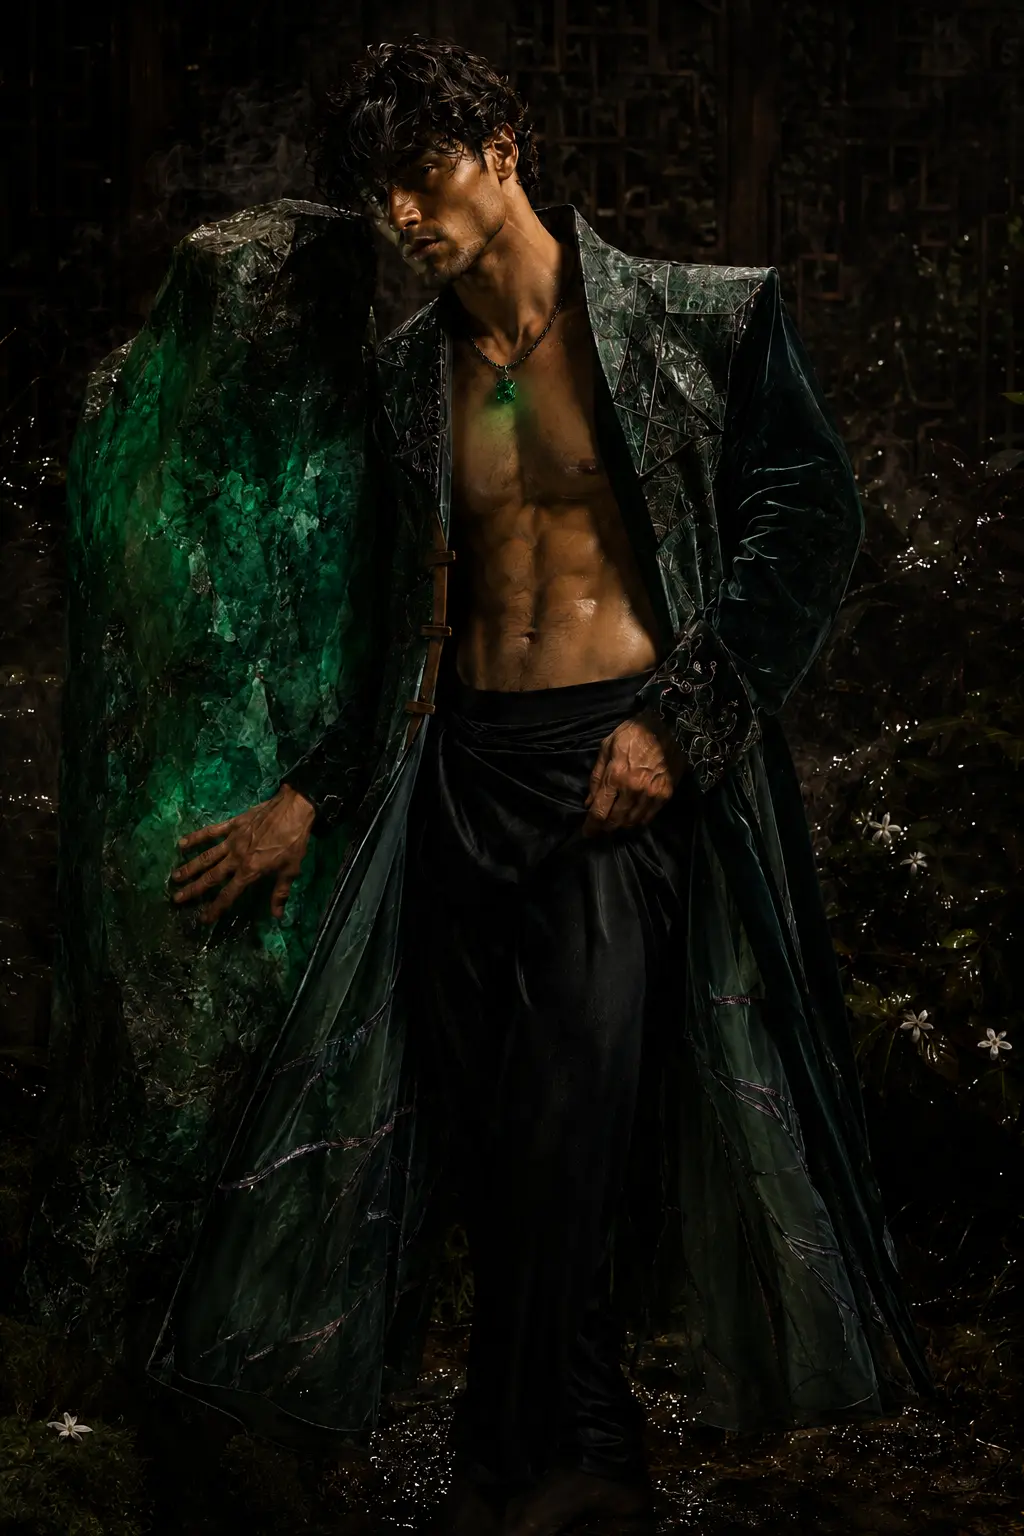
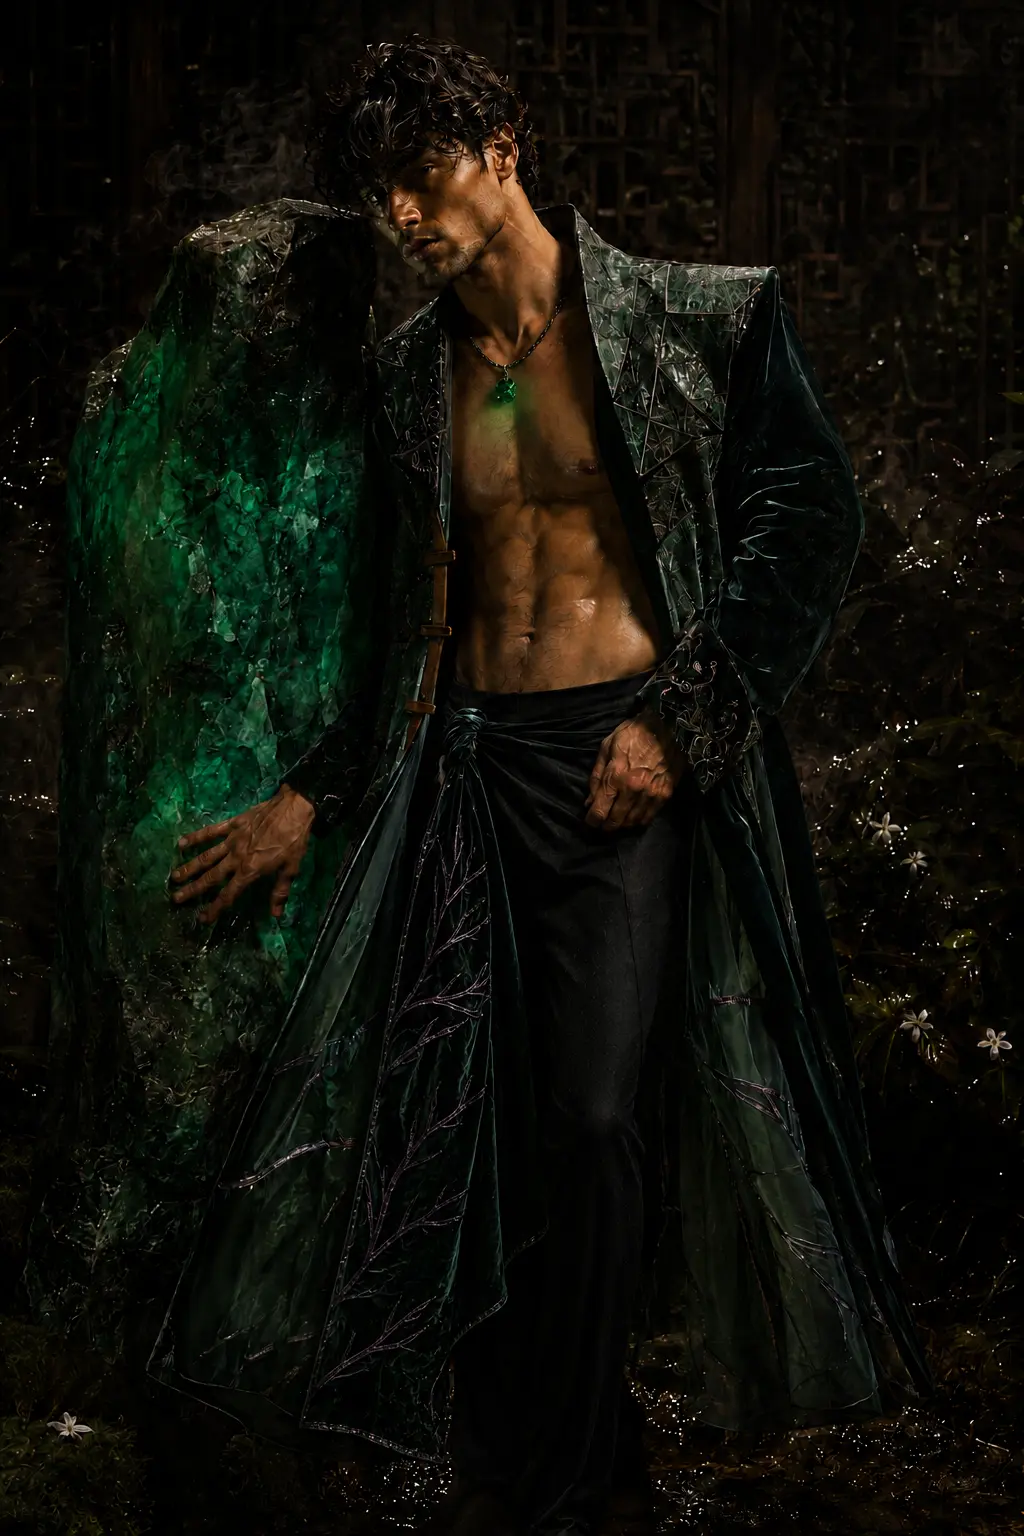
Finalize Velvet Jade couture portrait

diff --git a/index.html b/index.html
@@ -364,7 +364,7 @@
 <div class="badge">In Development</div><div class="card-art"><img alt="Grapefruit, tropical flowers, salt crystals, volcanic wood and golden solar light" class="art-svg" decoding="async" loading="lazy" src="assets/summer-nova.webp?v=20260823-portraits"/></div><div class="card-copy"><div class="eyebrow">Tropical radiance / modern dry freshness</div><h3>SUMMER NOVA</h3><div class="tension">Solar life crossing black salt air.</div><div class="notes">Grapefruit-green air · tropical heat · solar facets · black salt · dry timber</div><span class="card-cta">Enter the story <span aria-hidden="true">→</span></span></div>
 </a>
 <a aria-label="Enter the Velvet Jade story" class="card" href="fragrances/velvet-jade/">
-<div class="badge">In Development</div><div class="card-art"><img alt="A bare-chested man in sculptural black-green couture beside a jade monolith, wearing a softly glowing jade pendant" class="art-svg" decoding="async" loading="lazy" src="assets/velvet-jade.webp?v=20260823-arcaneum-v2"/></div><div class="card-copy"><div class="eyebrow">Cold green clarity / velvet skin warmth</div><h3>VELVET JADE</h3><div class="tension">Silk skin. Cold heart.</div><div class="notes">Violet leaf · black tea · Jasmine Auriculatum · orris · Mysore sandalwood · skin musk</div><span class="card-cta">Enter the story <span aria-hidden="true">→</span></span></div>
+<div class="badge">In Development</div><div class="card-art"><img alt="A bare-chested man in sculptural black-green couture with an embroidered velvet hip drape, beside a jade monolith and wearing a softly glowing jade pendant" class="art-svg" decoding="async" loading="lazy" src="assets/velvet-jade.webp?v=20260823-arcaneum-v3"/></div><div class="card-copy"><div class="eyebrow">Cold green clarity / velvet skin warmth</div><h3>VELVET JADE</h3><div class="tension">Silk skin. Cold heart.</div><div class="notes">Violet leaf · black tea · Jasmine Auriculatum · orris · Mysore sandalwood · skin musk</div><span class="card-cta">Enter the story <span aria-hidden="true">→</span></span></div>
 </a>
 </div>
 </div>

diff --git a/fragrances/velvet-jade/index.html b/fragrances/velvet-jade/index.html
@@ -10,7 +10,7 @@
   <link rel="preconnect" href="https://fonts.googleapis.com" />
   <link rel="preconnect" href="https://fonts.gstatic.com" crossorigin />
   <link href="https://fonts.googleapis.com/css2?family=Cormorant+Garamond:wght@400;500;600&amp;family=Manrope:wght@300;400;500;600&amp;display=swap" rel="stylesheet" />
-  <link rel="preload" as="image" href="../../assets/velvet-jade.webp?v=20260823-arcaneum-v2" />
+  <link rel="preload" as="image" href="../../assets/velvet-jade.webp?v=20260823-arcaneum-v3" />
   <link rel="stylesheet" href="../story.css" />
   <script type="module" src="../story.js"></script>
 </head>
@@ -23,8 +23,8 @@
   </header>
 
   <main>
-    <section class="story-hero" style="--scene:url('../../assets/velvet-jade.webp?v=20260823-arcaneum-v2');--scene-position:58% center;--scene-position-mobile:50% top">
-      <span class="sr-only">A bare-chested man in sculptural black-green couture stands beside a jade monolith, wearing a softly glowing jade pendant.</span>
+    <section class="story-hero" style="--scene:url('../../assets/velvet-jade.webp?v=20260823-arcaneum-v3');--scene-position:58% center;--scene-position-mobile:50% top">
+      <span class="sr-only">A bare-chested man in sculptural black-green couture with an embroidered velvet hip drape stands beside a jade monolith, wearing a softly glowing jade pendant.</span>
       <div class="hero-content shell">
         <div class="hero-copy" data-reveal>
           <div class="eyebrow">Olfactory World VII · In Development</div>

diff --git a/fragrances/summer-nova/index.html b/fragrances/summer-nova/index.html
@@ -136,7 +136,7 @@
 
   <footer class="story-footer">
     <div class="shell">
-      <a class="next-story" href="../velvet-jade/"><img src="../../assets/velvet-jade.webp?v=20260823-arcaneum-v2" alt="Velvet Jade olfactory world" /><div><div class="eyebrow">Next World</div><h2>Velvet Jade</h2></div><span class="next-arrow" aria-hidden="true">→</span></a>
+      <a class="next-story" href="../velvet-jade/"><img src="../../assets/velvet-jade.webp?v=20260823-arcaneum-v3" alt="Velvet Jade olfactory world" /><div><div class="eyebrow">Next World</div><h2>Velvet Jade</h2></div><span class="next-arrow" aria-hidden="true">→</span></a>
       <div class="footer-line"><span>© 2026 ARCANEUM PERFUMES</span><a href="../../index.html#collection">Return to the collection</a><span>Independent Fine Fragrance</span></div>
     </div>
   </footer>
